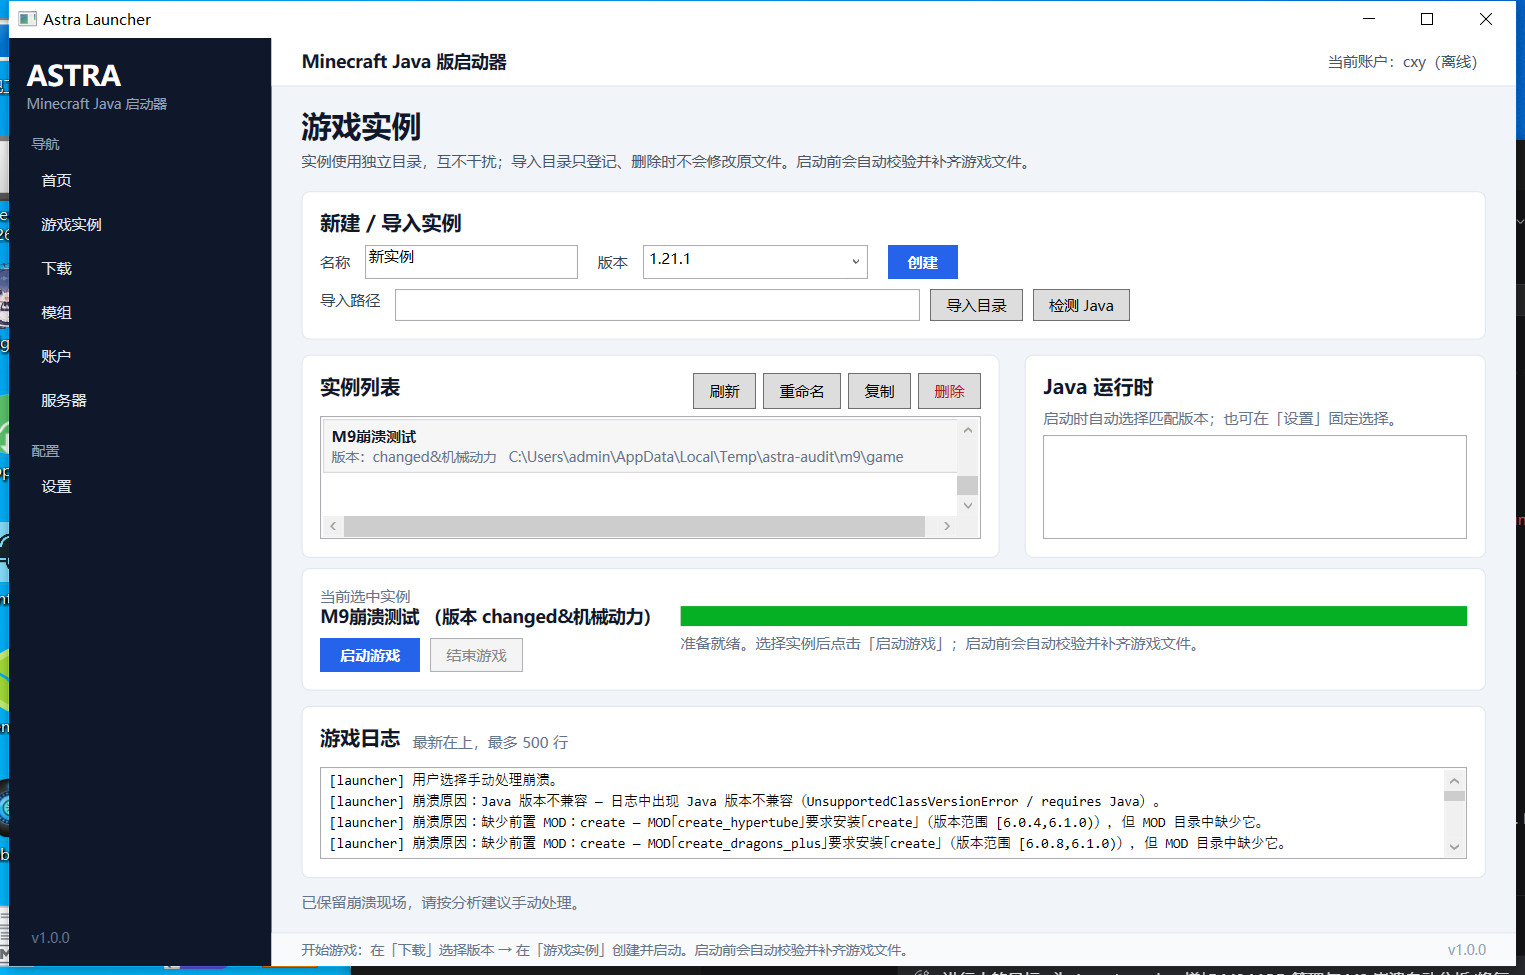
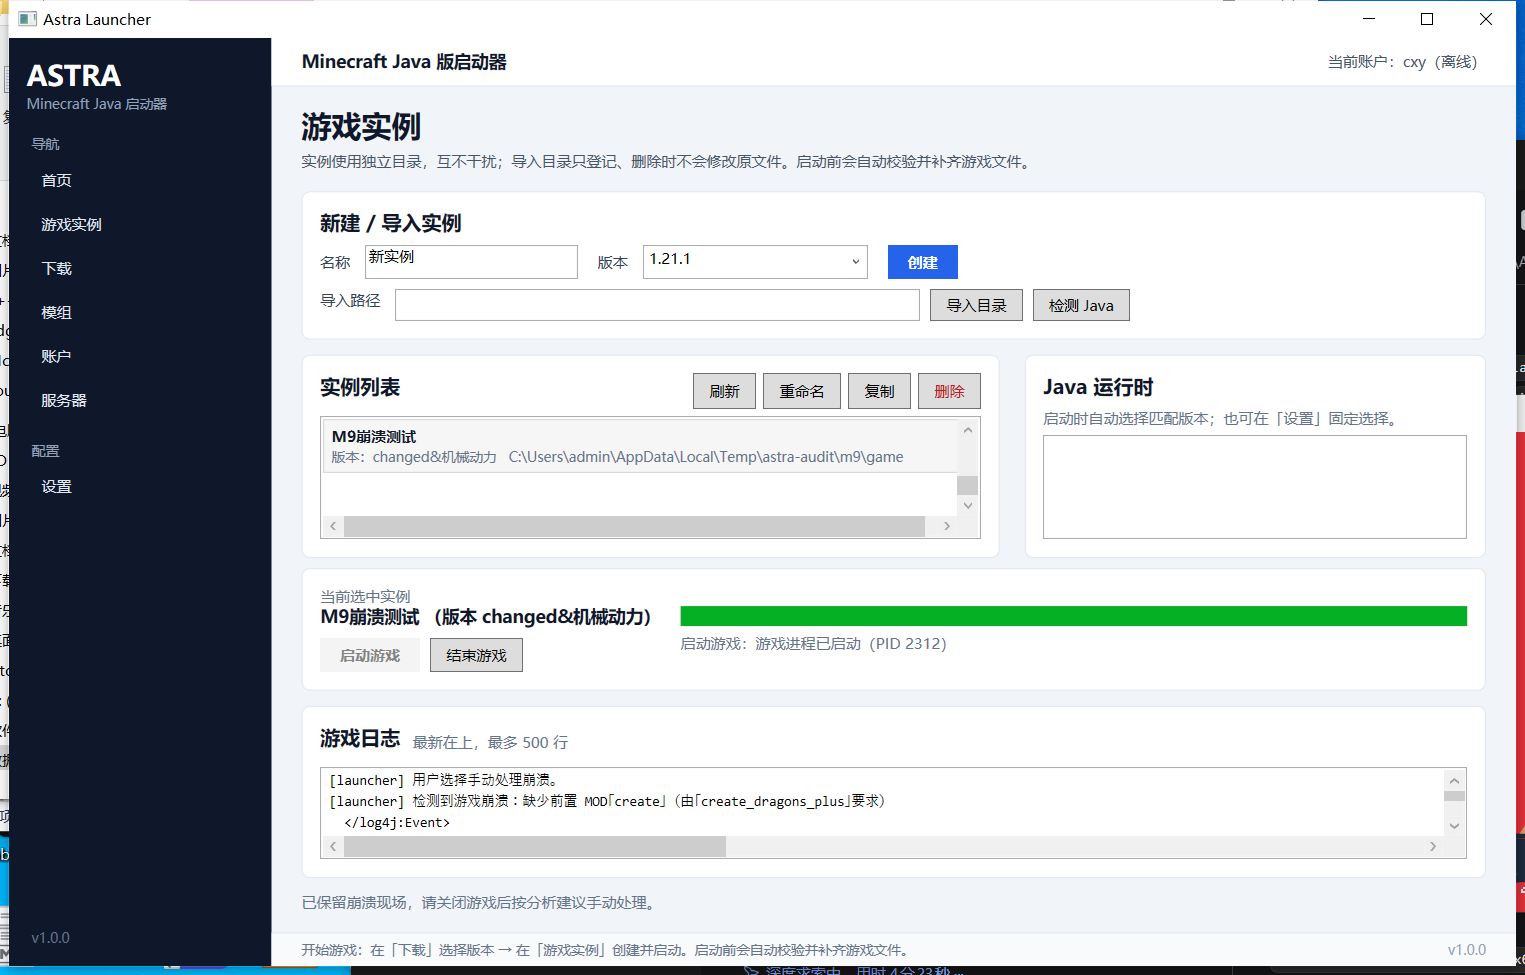
fix(crash): show live crash analysis above the running game window

diff --git a/AstraLauncher.App/ViewModels/InstancesPageViewModel.cs b/AstraLauncher.App/ViewModels/InstancesPageViewModel.cs
@@ -1,5 +1,5 @@
+using System.IO;
 using System.Collections.ObjectModel;
-using System.IO;
 using System.Windows.Input;
 using AstraLauncher.App.Commands;
 using AstraLauncher.App.Services;
@@ -28,6 +28,10 @@ public sealed class InstancesPageViewModel : PageViewModel
     private readonly ICrashDialogService? _crashDialog;
     private readonly ICrashRepairService? _crashRepair;
     private readonly RelayCommand _stopCommand;
+    private GameInstance? _launchingInstance;
+    private DateTimeOffset? _launchStartedAt;
+    private bool _crashDialogShown;
+    private bool _crashDetectionQueued;
     private GameInstance? _selectedInstance;
     private Guid? _selectedInstanceId;
     private string _name = "新实例";
@@ -265,6 +269,10 @@ public sealed class InstancesPageViewModel : PageViewModel
         LaunchPercent = 0;
         LaunchStage = "准备启动";
         GameLogs.Clear();
+        _launchingInstance = selected;
+        _launchStartedAt = DateTimeOffset.Now;
+        _crashDialogShown = false;
+        _crashDetectionQueued = false;
         AppendLog($"[launcher] 启动实例：{selected.Name}（版本 {selected.VersionId}）");
         if (joinServer is not null)
         {
@@ -288,12 +296,15 @@ public sealed class InstancesPageViewModel : PageViewModel
             IGameProcess process = await _launchService.LaunchAsync(selected, session, options, progress, cancellation.Token);
             _runningProcess = process;
             process.OutputReceived += OnGameOutput;
+            using var crashPollCancellation = CancellationTokenSource.CreateLinkedTokenSource(cancellation.Token);
+            _ = PollCrashLogAsync(selected, crashPollCancellation.Token);
             StatusMessage = $"游戏已启动（PID {process.Id}），正在等待退出…";
             AppendLog($"[launcher] 游戏进程已启动，PID {process.Id}");
             GameExitInfo exitInfo = await process.Exited;
+            crashPollCancellation.Cancel();
             AppendLog($"[launcher] 游戏进程已退出，退出码 {exitInfo.ExitCode}");
             StatusMessage = $"游戏已退出（退出码 {exitInfo.ExitCode}）。";
-            if (_crashAnalyzer is not null)
+            if (_crashAnalyzer is not null && !_crashDialogShown)
             {
                 await AnalyzeAndOfferRepairAsync(selected, exitInfo.ExitCode, cancellation.Token);
             }
@@ -333,7 +344,7 @@ public sealed class InstancesPageViewModel : PageViewModel
         _logger.LogInformation("Starting crash analysis for {Instance} (exit code {ExitCode}).", instance.Name, exitCode);
         try
         {
-            CrashAnalysisResult? analysis = await _crashAnalyzer.AnalyzeAsync(instance, exitCode, cancellationToken);
+            CrashAnalysisResult? analysis = await _crashAnalyzer.AnalyzeAsync(instance, exitCode, _launchStartedAt, cancellationToken);
             if (analysis is null)
             {
                 StatusMessage = $"游戏已退出（退出码 {exitCode}）。";
@@ -429,6 +440,57 @@ public sealed class InstancesPageViewModel : PageViewModel
         if (progress.Percent is double percent) LaunchPercent = Math.Clamp(percent, 0, 100);
     }
 
+    /// <summary>
+    /// Polls the instance's latest.log while the game runs, because the Forge/Minecraft crash screen can stay open for a
+    /// long time and its console output is not always forwarded to the launcher. Detection is delegated to the UI thread.
+    /// </summary>
+    private async Task PollCrashLogAsync(GameInstance instance, CancellationToken cancellationToken)
+    {
+        string logPath = Path.Combine(instance.DirectoryPath, "logs", "latest.log");
+        try
+        {
+            while (!cancellationToken.IsCancellationRequested && !_crashDialogShown)
+            {
+                await Task.Delay(TimeSpan.FromSeconds(2), cancellationToken);
+                if (_crashDialogShown || _crashDetectionQueued)
+                {
+                    continue;
+                }
+
+                if (!File.Exists(logPath))
+                {
+                    continue;
+                }
+
+                string tail;
+                try
+                {
+                    using FileStream stream = new(logPath, FileMode.Open, FileAccess.Read, FileShare.ReadWrite, 8192, FileOptions.SequentialScan);
+                    long start = Math.Max(0, stream.Length - 16384);
+                    stream.Seek(start, SeekOrigin.Begin);
+                    using var reader = new StreamReader(stream, System.Text.Encoding.UTF8, detectEncodingFromByteOrderMarks: true);
+                    tail = reader.ReadToEnd();
+                }
+                catch (Exception exception) when (exception is IOException or UnauthorizedAccessException)
+                {
+                    continue;
+                }
+
+                if (!IsCrashMarker(tail))
+                {
+                    continue;
+                }
+
+                _crashDetectionQueued = true;
+                _uiContext?.Post(_ => _ = AnalyzeLiveCrashAsync(), null);
+            }
+        }
+        catch (OperationCanceledException) when (cancellationToken.IsCancellationRequested)
+        {
+            // Normal end of the launch (game exited or launcher closed).
+        }
+    }
+
     private void OnGameOutput(object? sender, string line)
     {
         SynchronizationContext? context = _uiContext;
@@ -438,7 +500,103 @@ public sealed class InstancesPageViewModel : PageViewModel
         }
 
         context.Post(_ => AppendLog(line), null);
+        if (!_crashDialogShown && !_crashDetectionQueued && IsCrashMarker(line))
+        {
+            _crashDetectionQueued = true;
+            context.Post(_ => _ = AnalyzeLiveCrashAsync(), null);
+        }
     }
+
+    /// <summary>
+    /// Forge/Minecraft keeps its own crash screen open, so users may not close the game window immediately. As soon as the
+    /// game output contains a crash marker, analyze in the background and show the same PCL-style dialog above the game.
+    /// </summary>
+    private async Task AnalyzeLiveCrashAsync()
+    {
+        GameInstance? instance = _launchingInstance;
+        if (instance is null || _crashDialogShown || _crashAnalyzer is null || _crashDialog is null)
+        {
+            _crashDetectionQueued = false;
+            return;
+        }
+
+        try
+        {
+            // Give the crash handler a moment to flush latest.log/crash-reports.
+            await Task.Delay(TimeSpan.FromSeconds(3));
+            if (_crashDialogShown)
+            {
+                return;
+            }
+
+            CrashAnalysisResult? analysis = await _crashAnalyzer.AnalyzeAsync(instance, 1, _launchStartedAt, CancellationToken.None);
+            if (analysis is null)
+            {
+                _crashDetectionQueued = false;
+                return;
+            }
+
+            _crashDialogShown = true;
+            StatusMessage = $"崩溃分析：{analysis.Summary}";
+            AppendLog($"[launcher] 检测到游戏崩溃：{analysis.Summary}");
+            _logger.LogInformation("Live crash analysis for {Instance}: {Summary}.", instance.Name, analysis.Summary);
+            CrashRepairChoice choice = _crashDialog.Show(analysis);
+            _logger.LogInformation("Live crash dialog choice for {Instance}: {Choice}.", instance.Name, choice);
+            if (choice != CrashRepairChoice.AutoRepair)
+            {
+                if (choice == CrashRepairChoice.Manual)
+                {
+                    StatusMessage = "已保留崩溃现场，请关闭游戏后按分析建议手动处理。";
+                    AppendLog("[launcher] 用户选择手动处理崩溃。");
+                }
+
+                return;
+            }
+
+            if (_crashRepair is null)
+            {
+                StatusMessage = "自动修复服务不可用，请按建议手动处理。";
+                return;
+            }
+
+            // Stop the crashed game first so mod jars are no longer locked, then apply the reversible repairs.
+            try
+            {
+                _runningProcess?.Kill();
+            }
+            catch (Exception exception) when (exception is InvalidOperationException or IOException)
+            {
+                _logger.LogWarning(exception, "结束崩溃中的游戏进程失败。");
+            }
+
+            StatusMessage = "正在应用自动修复…";
+            AppendLog("[launcher] 用户选择自动修复，正在应用可逆修复…");
+            var repairProgress = new Progress<string>(message => AppendLog($"[launcher] {message}"));
+            CrashRepairResult repair = await _crashRepair.RepairAsync(instance, analysis, repairProgress, CancellationToken.None);
+            foreach (CrashRepairAction action in repair.Actions)
+            {
+                AppendLog($"[launcher] 修复：{action.Description} — {(action.Success ? "成功" : "失败")}{(action.Detail is null ? string.Empty : "：" + action.Detail)}");
+            }
+
+            StatusMessage = repair.Summary;
+            AppendLog($"[launcher] {repair.Summary}");
+        }
+        catch (Exception exception)
+        {
+            _logger.LogWarning(exception, "实时崩溃分析失败：{Instance}", instance.Name);
+        }
+    }
+
+    private static bool IsCrashMarker(string line) =>
+        line.Contains("Crash report saved to", StringComparison.OrdinalIgnoreCase)
+        || line.Contains("Missing or unsupported mandatory dependencies", StringComparison.OrdinalIgnoreCase)
+        || line.Contains("Mod Loading has failed", StringComparison.OrdinalIgnoreCase)
+        || line.Contains("Minecraft has crashed", StringComparison.OrdinalIgnoreCase)
+        || line.Contains("Error loading mods", StringComparison.OrdinalIgnoreCase)
+        || line.Contains("errors have occurred during loading", StringComparison.OrdinalIgnoreCase)
+        || line.Contains("Actual version: '[MISSING]'", StringComparison.OrdinalIgnoreCase)
+        || line.Contains("A fatal error has been detected by the Java Runtime Environment", StringComparison.OrdinalIgnoreCase)
+        || line.Contains("OutOfMemoryError", StringComparison.OrdinalIgnoreCase);
 
     private void AppendLog(string line)
     {

diff --git a/AstraLauncher.Game/Diagnostics/CrashAnalyzer.cs b/AstraLauncher.Game/Diagnostics/CrashAnalyzer.cs
@@ -24,7 +24,11 @@ public sealed partial class CrashAnalyzer : ICrashAnalyzer
         _logger = logger;
     }
 
-    public Task<CrashAnalysisResult?> AnalyzeAsync(GameInstance instance, int exitCode, CancellationToken cancellationToken = default)
+    public Task<CrashAnalysisResult?> AnalyzeAsync(
+        GameInstance instance,
+        int exitCode,
+        DateTimeOffset? notBefore = null,
+        CancellationToken cancellationToken = default)
     {
         ArgumentNullException.ThrowIfNull(instance);
         if (string.IsNullOrWhiteSpace(instance.DirectoryPath) || !Directory.Exists(instance.DirectoryPath))
@@ -36,12 +40,17 @@ public sealed partial class CrashAnalyzer : ICrashAnalyzer
         {
             cancellationToken.ThrowIfCancellationRequested();
             string? latestLogPath = Path.Combine(instance.DirectoryPath, "logs", "latest.log");
-            if (!File.Exists(latestLogPath))
+            if (!File.Exists(latestLogPath) || (notBefore is DateTimeOffset threshold && File.GetLastWriteTimeUtc(latestLogPath) < threshold.UtcDateTime))
             {
                 latestLogPath = null;
             }
 
-            string? crashReportPath = FindNewestCrashReport(instance.DirectoryPath);
+            string? crashReportPath = FindNewestCrashReport(instance.DirectoryPath, notBefore);
+            if (latestLogPath is null && crashReportPath is null)
+            {
+                return Task.FromResult<CrashAnalysisResult?>(null);
+            }
+
             string logText = latestLogPath is null ? string.Empty : ReadTail(latestLogPath);
             string reportText = crashReportPath is null ? string.Empty : ReadTail(crashReportPath);
             string combined = logText + "\n" + reportText;
@@ -220,9 +229,7 @@ public sealed partial class CrashAnalyzer : ICrashAnalyzer
     private static void DetectJavaVersion(string text, List<CrashIssue> issues)
     {
         if (!text.Contains("UnsupportedClassVersionError", StringComparison.OrdinalIgnoreCase)
-            && !text.Contains("compiled by a more recent version of the Java Runtime", StringComparison.OrdinalIgnoreCase)
-            && !text.Contains("requires Java", StringComparison.OrdinalIgnoreCase)
-            && !text.Contains("Java version", StringComparison.OrdinalIgnoreCase))
+            && !text.Contains("compiled by a more recent version of the Java Runtime", StringComparison.OrdinalIgnoreCase))
         {
             return;
         }
@@ -335,7 +342,7 @@ public sealed partial class CrashAnalyzer : ICrashAnalyzer
         return source.Substring(start, length);
     }
 
-    private static string? FindNewestCrashReport(string gameDirectory)
+    private static string? FindNewestCrashReport(string gameDirectory, DateTimeOffset? notBefore)
     {
         string directory = Path.Combine(gameDirectory, "crash-reports");
         if (!Directory.Exists(directory))
@@ -346,6 +353,7 @@ public sealed partial class CrashAnalyzer : ICrashAnalyzer
         try
         {
             return Directory.EnumerateFiles(directory, "*.txt")
+                .Where(path => notBefore is not DateTimeOffset threshold || File.GetLastWriteTimeUtc(path) >= threshold.UtcDateTime)
                 .OrderByDescending(File.GetLastWriteTimeUtc)
                 .FirstOrDefault();
         }

diff --git a/AstraLauncher.App/Services/CrashAnalysisDialogService.cs b/AstraLauncher.App/Services/CrashAnalysisDialogService.cs
@@ -1,4 +1,4 @@
-using System.IO;
+using System.IO;
 using System.Diagnostics;
 using System.Windows;
 using System.Windows.Controls;
@@ -39,6 +39,8 @@ public sealed class CrashAnalysisDialogService : ICrashDialogService
             MinHeight = 420,
             Owner = Application.Current?.MainWindow,
             WindowStartupLocation = WindowStartupLocation.CenterOwner,
+            ShowInTaskbar = true,
+            Topmost = true,
             Background = new SolidColorBrush(Color.FromRgb(241, 245, 249)),
         };
 
@@ -60,7 +62,7 @@ public sealed class CrashAnalysisDialogService : ICrashDialogService
 
         var note = new TextBlock
         {
-            Text = "自动修复只会执行可逆操作：下载缺失的前置 MOD、禁用可疑/重复的 MOD、调大内存。修复前不会删除任何文件。",
+            Text = "自动修复只会执行可逆操作：下载缺失的前置 MOD、禁用可疑/重复的 MOD、调大内存。修复前不会删除任何文件；若崩溃的游戏窗口仍开着，选择自动修复会先结束该游戏进程。",
             Foreground = new SolidColorBrush(Color.FromRgb(100, 116, 139)),
             TextWrapping = TextWrapping.Wrap,
             Margin = new Thickness(0, 0, 0, 10),
@@ -142,6 +144,12 @@ public sealed class CrashAnalysisDialogService : ICrashDialogService
         };
         root.Children.Add(scroll);
         window.Content = root;
+        window.Loaded += (_, _) =>
+        {
+            // The game's own crash screen is a separate top-level window; make sure the analysis dialog appears above it.
+            window.Activate();
+            window.Topmost = true;
+        };
         window.ShowDialog();
         return choice;
     }

diff --git a/AstraLauncher.Game/Diagnostics/CrashModels.cs b/AstraLauncher.Game/Diagnostics/CrashModels.cs
@@ -42,8 +42,15 @@ public sealed record CrashAnalysisResult(
 /// <summary>Analyzes the latest game log / crash report of an instance after a non-zero exit code.</summary>
 public interface ICrashAnalyzer
 {
-    /// <summary>Returns <see langword="null"/> when the exit code is zero or no log evidence exists.</summary>
-    Task<CrashAnalysisResult?> AnalyzeAsync(GameInstance instance, int exitCode, CancellationToken cancellationToken = default);
+    /// <summary>
+    /// Returns <see langword="null"/> when there is no fresh log evidence. <paramref name="notBefore"/> can be used to
+    /// ignore stale crash reports/logs from earlier runs (for example when analyzing a crash while the game still runs).
+    /// </summary>
+    Task<CrashAnalysisResult?> AnalyzeAsync(
+        GameInstance instance,
+        int exitCode,
+        DateTimeOffset? notBefore = null,
+        CancellationToken cancellationToken = default);
 }
 
 /// <summary>Outcome of one reversible repair action.</summary>

diff --git a/AstraLauncher.Tests/CrashAnalyzerTests.cs b/AstraLauncher.Tests/CrashAnalyzerTests.cs
@@ -116,6 +116,17 @@ public sealed class CrashAnalyzerTests : IDisposable
     }
 
     [Fact]
+    public async Task AnalyzeAsync_StaleLogsBeforeNotBefore_ReturnsNull()
+    {
+        await WriteLogAsync("Minecraft has crashed!");
+        DateTimeOffset threshold = DateTimeOffset.UtcNow.AddMinutes(5);
+
+        CrashAnalysisResult? result = await _analyzer.AnalyzeAsync(_instance, 1, threshold);
+
+        Assert.Null(result);
+    }
+
+    [Fact]
     public async Task AnalyzeAsync_ZeroExitCode_ReturnsNull()
     {
         await WriteLogAsync("normal shutdown");

diff --git a/docs/progress.md b/docs/progress.md
@@ -325,7 +325,7 @@
   - `CrashAnalyzer` 读取 `logs/latest.log` 与最新 `crash-reports/*.txt`，识别缺失前置依赖（Forge/NeoForge `MISSING`、Fabric missing 行）、重复 MOD、`Suspected Mods`、Java 版本、OOM、显卡/OpenGL、加载器/Mixin 等；过滤堆栈帧避免把类名误判为 MOD。
   - `CrashRepairService` 仅执行可逆修复：从 Modrinth 安装缺失前置、禁用可疑/重复 MOD、内存 +1 GiB；`CrashAnalysisDialogService` 展示 PCL 风格详情/建议与「自动修复 / 手动处理 / 查看日志」，修复前先询问。
   - 游戏退出后（含 exit code 0 但存在崩溃标记的情况）自动分析；实例页记录分析/选择/修复到游戏日志。
-  - 真实验证：导入 `changed&机械动力`（Forge 1.20.1）副本并启动，游戏崩溃后自动弹出崩溃分析窗口，识别「缺少前置 MOD create（由 create_dragons_plus / create_hypertube 要求）」；选择手动处理后保留现场，未修改任何 MOD。
+  - 真实验证：导入 `changed&机械动力`（Forge 1.20.1）副本并启动，游戏崩溃后 **无需先关闭游戏**，崩溃分析窗口会在游戏错误画面上方自动弹出（18 s 内），识别「缺少前置 MOD create（由 create_dragons_plus / create_hypertube 要求）」；选择手动处理后保留现场，未修改任何 MOD。实时检测通过轮询实例 latest.log 与日志时间戳过滤上一次运行的旧崩溃报告，避免误报；窗口设为 Topmost 并激活，避免被游戏窗口挡住。
 - 验证：`dotnet build -c Release` **0 警告 / 0 错误**；`dotnet test` **295/295 通过**。
 - 证据：`docs/evidence/m8/`（m8-mods-list.png、m8-mods-toggled.png、m8-modrinth-results.png、m8-install-result.png、m8-smoke.log、m8-install.log）与 `docs/evidence/m9/`（m9-crash2-dialog.png、m9-crash2-after.png、m9-crash2.log）。
[1 lines of base64/hex data omitted]
